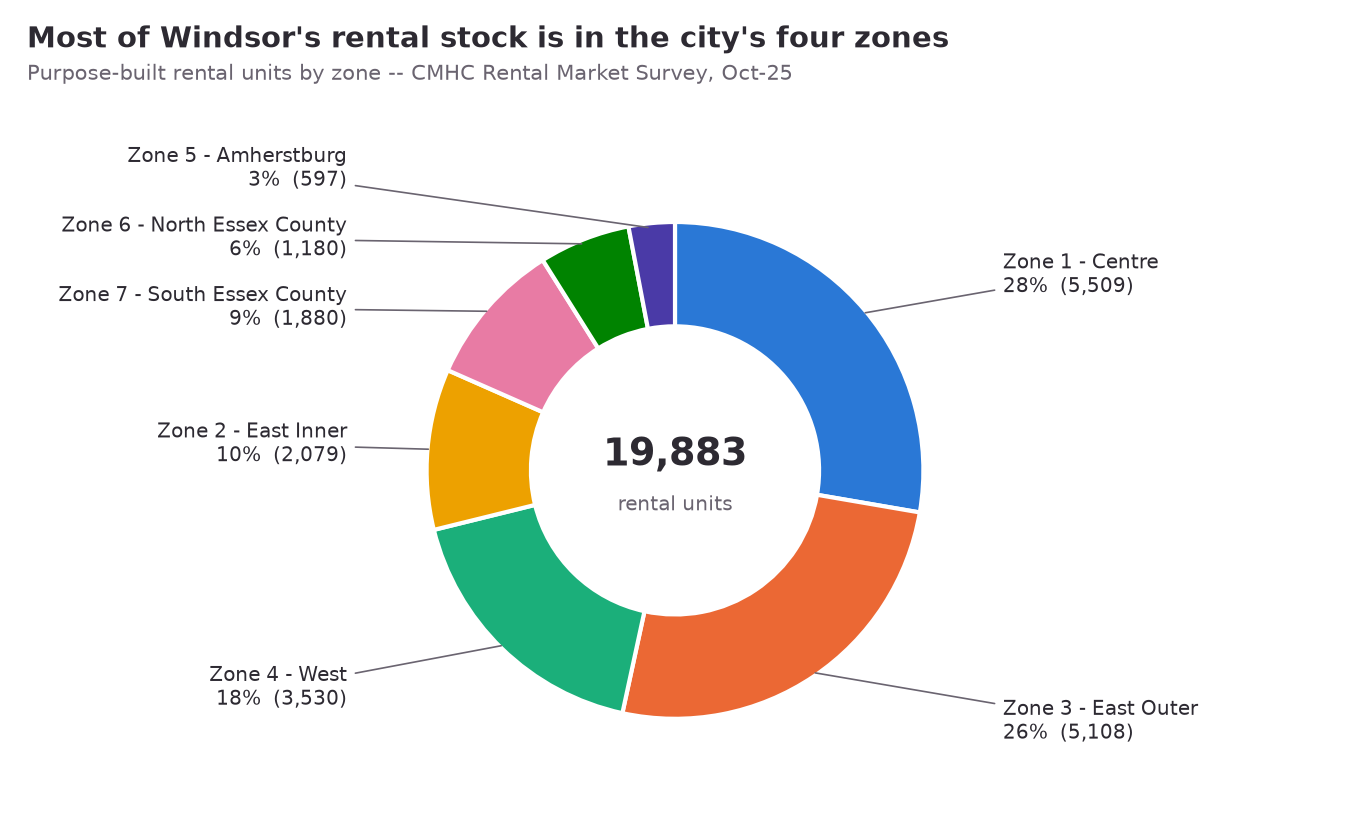
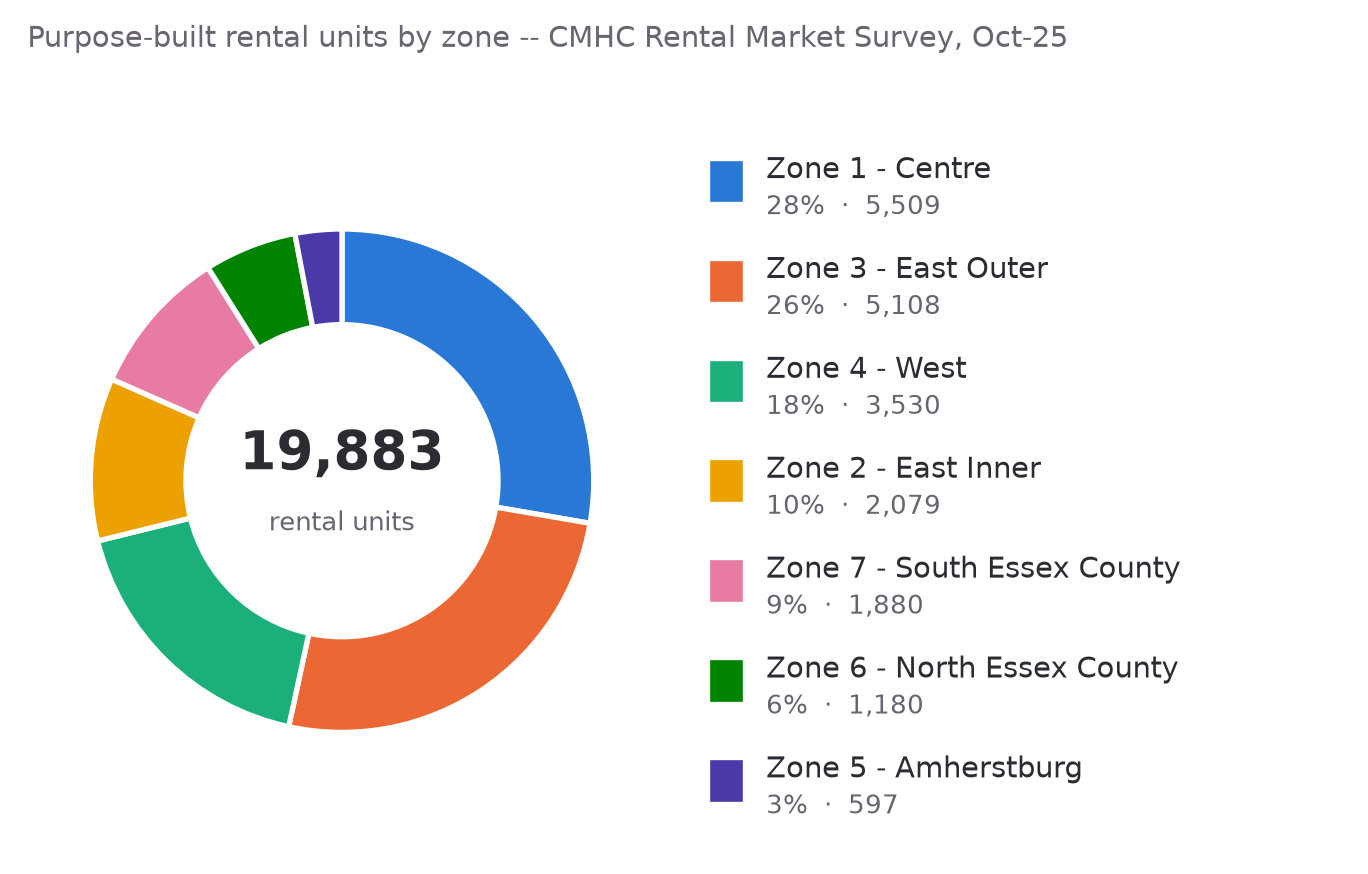
Make Story 5 chart snapshots readable and fix arrow entity
- Render the snapshots smaller in inches with larger text, so labels
  read at about 13px once the React card scales the image down
- Replace the donuts' outside labels with a key (swatch, name, share,
  count) beside the ring; with 7 zones the outside labels collided or
  ran off the image
- Drop the headline inside each image, which repeated the card title;
  keep the measure and source line
- Put rent-axis ticks every $500 so they don't crowd
- Use the ↗ character instead of &nearr;, which JSX doesn't recognise
  and printed literally (Story 5 link and the shared "Open full
  dashboard" link)

diff --git a/web/src/pages/StoryIntegratedAnalysis.jsx b/web/src/pages/StoryIntegratedAnalysis.jsx
@@ -88,8 +88,8 @@ function ConclusionGrid() {
               src={c.image}
               alt={c.alt}
               loading="lazy"
-              width="1350"
-              height="840"
+              width="1368"
+              height="874"
             />
             <ul className="conclusion-insights">
               {c.insights.map((insight) => (
@@ -102,7 +102,7 @@ function ConclusionGrid() {
       <p className="conclusion-live-link">
         Chart images are snapshots of the{" "}
         <a href={SUPERSET_DASHBOARD_URL} target="_blank" rel="noreferrer">
-          live Story 5 dashboard &nearr;
+          live Story 5 dashboard ↗
         </a>
       </p>
     </>

diff --git a/web/src/components/SupersetEmbed.jsx b/web/src/components/SupersetEmbed.jsx
@@ -23,7 +23,7 @@ export default function SupersetEmbed({ dashboardId, title, height = 1400 }) {
       <div className="superset-embed-header">
         <span className="superset-embed-badge">Live dashboard</span>
         <a href={openUrl} target="_blank" rel="noreferrer" className="superset-embed-link">
-          Open full dashboard &nearr;
+          Open full dashboard ↗
         </a>
       </div>
       <iframe

diff --git a/etl/render_story5_snapshots.py b/etl/render_story5_snapshots.py
@@ -10,8 +10,7 @@ Re-run this after a data refresh so the images match the dashboard.
 
 Styling follows the Superset charts: the project's "windsor_housing"
 palette in the same slot order, slices sorted largest first (as Superset's
-sort_by_metric does), donut pies with a direct label (name and share) on
-every slice, and a bar chart for Story 4, whose conclusion is a ranking
+sort_by_metric does), donut pies with a key giving each slice's name, share and count, and a bar chart for Story 4, whose conclusion is a ranking
 rather than parts of a whole.
 
 Run from the project virtual environment:
@@ -24,9 +23,9 @@ import matplotlib
 
 matplotlib.use("Agg")
 import matplotlib.pyplot as plt  # noqa: E402
-import numpy as np  # noqa: E402
 import pandas as pd  # noqa: E402
-from matplotlib.ticker import StrMethodFormatter  # noqa: E402
+from matplotlib.patches import Rectangle  # noqa: E402
+from matplotlib.ticker import MultipleLocator, StrMethodFormatter  # noqa: E402
 
 from load_windsor_shelter_cost_to_postgres import get_engine  # noqa: E402
 
@@ -39,7 +38,13 @@ INK = "#2d2a32"
 MUTED = "#6a6470"
 GRID = "#e6dccb"
 SURFACE = "#ffffff"
-LABEL_GAP = 0.28  # minimum vertical space between two-line slice labels, in data units
+
+# The React page shows each image at roughly half its pixel width, so the
+# figure is kept small in inches and text large relative to it -- labels
+# land around 13px on screen, not 9px.
+FIGSIZE = (7.2, 4.6)
+DPI = 190
+LABEL_SIZE = 11
 
 plt.rcParams.update({
     "font.family": "DejaVu Sans",
@@ -84,60 +89,50 @@ def fetch(engine, key: str) -> pd.DataFrame:
     return df.sort_values("value", ascending=False).reset_index(drop=True)
 
 
-def donut(df: pd.DataFrame, title: str, subtitle: str, unit: str, path: Path) -> None:
-    fig, ax = plt.subplots(figsize=(9, 5.6), dpi=150)
+def add_caption(fig, caption: str) -> None:
+    """What the chart measures and where it's from. No headline: the React
+    card above each image already carries the conclusion as its title."""
+    fig.text(0.02, 0.955, caption, ha="left", va="center", fontsize=LABEL_SIZE, color=MUTED)
+
+
+def donut(df: pd.DataFrame, caption: str, unit: str, path: Path) -> None:
+    """Donut on the left, a key on the right with one row per slice
+    (swatch, name, share and count) in the same largest-first order as the
+    slices. A key rather than labels around the ring: with 7 zones, several
+    small slices sit side by side and their labels collide or run off the
+    image at the size the React card shows it."""
+    fig = plt.figure(figsize=FIGSIZE, dpi=DPI)
+    ax = fig.add_axes([0.02, 0.04, 0.46, 0.82])
     total = df["value"].sum()
     colors = PALETTE[: len(df)]
-    wedges, _ = ax.pie(
+    ax.pie(
         df["value"],
         colors=colors,
         startangle=90,
         counterclock=False,
         # 2px surface-coloured gaps between slices, so neighbours stay
         # distinct without relying on colour alone.
-        wedgeprops={"width": 0.42, "edgecolor": SURFACE, "linewidth": 2},
+        wedgeprops={"width": 0.38, "edgecolor": SURFACE, "linewidth": 2},
     )
-
-    # Direct label on every slice: name, share and count, in text ink
-    # (not the slice colour), with a leader line to the slice. Labels are
-    # placed per side of the donut and pushed apart vertically so small
-    # neighbouring slices don't print on top of each other.
-    labels = []
-    for wedge, (_, row) in zip(wedges, df.iterrows()):
-        angle = np.deg2rad((wedge.theta2 + wedge.theta1) / 2)
-        x, y = np.cos(angle), np.sin(angle)
-        share = 100 * row["value"] / total
-        labels.append({
-            "text": f"{row['label']}\n{share:.0f}%  ({row['value']:,.0f})",
-            "anchor": (x * 0.98, y * 0.98),
-            "side": 1 if x >= 0 else -1,
-            "y": y * 1.22,
-        })
-
-    for side in (1, -1):
-        on_side = sorted((lbl for lbl in labels if lbl["side"] == side), key=lambda lbl: -lbl["y"])
-        for above, below in zip(on_side, on_side[1:]):
-            below["y"] = min(below["y"], above["y"] - LABEL_GAP)
-
-    for lbl in labels:
-        ax.annotate(
-            lbl["text"],
-            xy=lbl["anchor"],
-            xytext=(lbl["side"] * 1.32, lbl["y"]),
-            ha="left" if lbl["side"] > 0 else "right",
-            va="center",
-            fontsize=9.5,
-            color=INK,
-            arrowprops={"arrowstyle": "-", "color": MUTED, "lw": 0.8},
-        )
-
-    ax.text(0, 0.06, f"{total:,.0f}", ha="center", va="center", fontsize=18, fontweight="bold", color=INK)
-    ax.text(0, -0.14, unit, ha="center", va="center", fontsize=9.5, color=MUTED)
+    ax.text(0, 0.1, f"{total:,.0f}", ha="center", va="center", fontsize=20, fontweight="bold", color=INK)
+    ax.text(0, -0.17, unit, ha="center", va="center", fontsize=LABEL_SIZE - 1, color=MUTED)
     ax.set_aspect("equal")
-    fig.suptitle(title, x=0.02, y=0.97, ha="left", fontsize=14, fontweight="bold", color=INK)
-    fig.text(0.02, 0.905, subtitle, ha="left", fontsize=10, color=MUTED)
-    # Wide side margins: slice labels sit outside the ring on both sides.
-    fig.subplots_adjust(top=0.84, bottom=0.04, left=0.27, right=0.73)
+
+    # Key rows, vertically centred on the donut. Text stays in ink, not the
+    # slice colour; the swatch carries the colour.
+    row_height = min(0.115, 0.8 / len(df))
+    top = 0.45 + row_height * (len(df) - 1) / 2
+    for i, (color, (_, row)) in enumerate(zip(colors, df.iterrows())):
+        y = top - i * row_height
+        fig.patches.append(
+            Rectangle((0.52, y - 0.022), 0.022, 0.044, transform=fig.transFigure, color=color, figure=fig)
+        )
+        share = 100 * row["value"] / total
+        fig.text(0.56, y + 0.012, row["label"], ha="left", va="center", fontsize=LABEL_SIZE, color=INK)
+        fig.text(0.56, y - 0.03, f"{share:.0f}%  ·  {row['value']:,.0f}", ha="left", va="center",
+                 fontsize=LABEL_SIZE - 1, color=MUTED)
+
+    add_caption(fig, caption)
     fig.savefig(path)
     plt.close(fig)
 
@@ -146,27 +141,25 @@ def rent_bars(df: pd.DataFrame, path: Path) -> None:
     # barh draws the first row at the bottom, so sort highest-first to put
     # the lowest rent (Windsor, the conclusion) at the top.
     df = df.sort_values("value", ascending=False)
-    fig, ax = plt.subplots(figsize=(9, 5.6), dpi=150)
+    fig, ax = plt.subplots(figsize=FIGSIZE, dpi=DPI)
     bars = ax.barh(df["label"], df["value"], color=PALETTE[0], height=0.6)
     for bar, value in zip(bars, df["value"]):
-        ax.text(value + 15, bar.get_y() + bar.get_height() / 2, f"${value:,.0f}", va="center", fontsize=10, color=INK)
+        ax.text(value + 15, bar.get_y() + bar.get_height() / 2, f"${value:,.0f}", va="center", fontsize=LABEL_SIZE, color=INK)
     for tick in ax.get_yticklabels():
         if tick.get_text() == "Windsor":
             tick.set_fontweight("bold")
     ax.set_xlim(0, df["value"].max() * 1.15)
+    ax.xaxis.set_major_locator(MultipleLocator(500))
     ax.xaxis.set_major_formatter(StrMethodFormatter("${x:,.0f}"))
     ax.grid(axis="x", color=GRID, linewidth=0.8)
     ax.set_axisbelow(True)
     for side in ("top", "right", "left"):
         ax.spines[side].set_visible(False)
     ax.spines["bottom"].set_color(GRID)
-    ax.tick_params(axis="y", length=0, labelsize=10.5, labelcolor=INK)
-    ax.set_xlabel("Average 2-bedroom apartment rent, October 2025")
-    fig.suptitle("Windsor has the lowest 2-bedroom rent of five peer cities", x=0.02, y=0.97, ha="left",
-                 fontsize=14, fontweight="bold", color=INK)
-    fig.text(0.02, 0.905, "CMHC Rental Market Survey, Oct-25 -- a ranking, so bars rather than a pie",
-             ha="left", fontsize=10, color=MUTED)
-    fig.subplots_adjust(top=0.84, bottom=0.13, left=0.3, right=0.96)
+    ax.tick_params(axis="y", length=0, labelsize=LABEL_SIZE, labelcolor=INK)
+    ax.tick_params(axis="x", labelsize=LABEL_SIZE - 1)
+    add_caption(fig, "Average 2-bedroom apartment rent -- CMHC Rental Market Survey, Oct-25")
+    fig.subplots_adjust(top=0.88, bottom=0.09, left=0.37, right=0.95)
     fig.savefig(path)
     plt.close(fig)
 
@@ -177,21 +170,18 @@ def main() -> None:
 
     donut(
         fetch(engine, "tenure"),
-        "Renters are most of Windsor's cost-burdened households",
         "Households spending 30%+ of income on shelter, by tenure -- 2021 Census",
         "burdened households",
         OUTPUT_DIR / "story1-burdened-by-tenure.png",
     )
     donut(
         fetch(engine, "zones"),
-        "Most of Windsor's rental stock is in the city's four zones",
         "Purpose-built rental units by zone -- CMHC Rental Market Survey, Oct-25",
         "rental units",
         OUTPUT_DIR / "story2-rental-stock-by-zone.png",
     )
     donut(
         fetch(engine, "starts"),
-        "Apartments were most of Windsor's 2025 housing starts",
         "Housing starts by dwelling type, 2025 -- CMHC via StatCan 34-10-0154-01",
         "homes started",
         OUTPUT_DIR / "story3-starts-by-dwelling-type.png",
